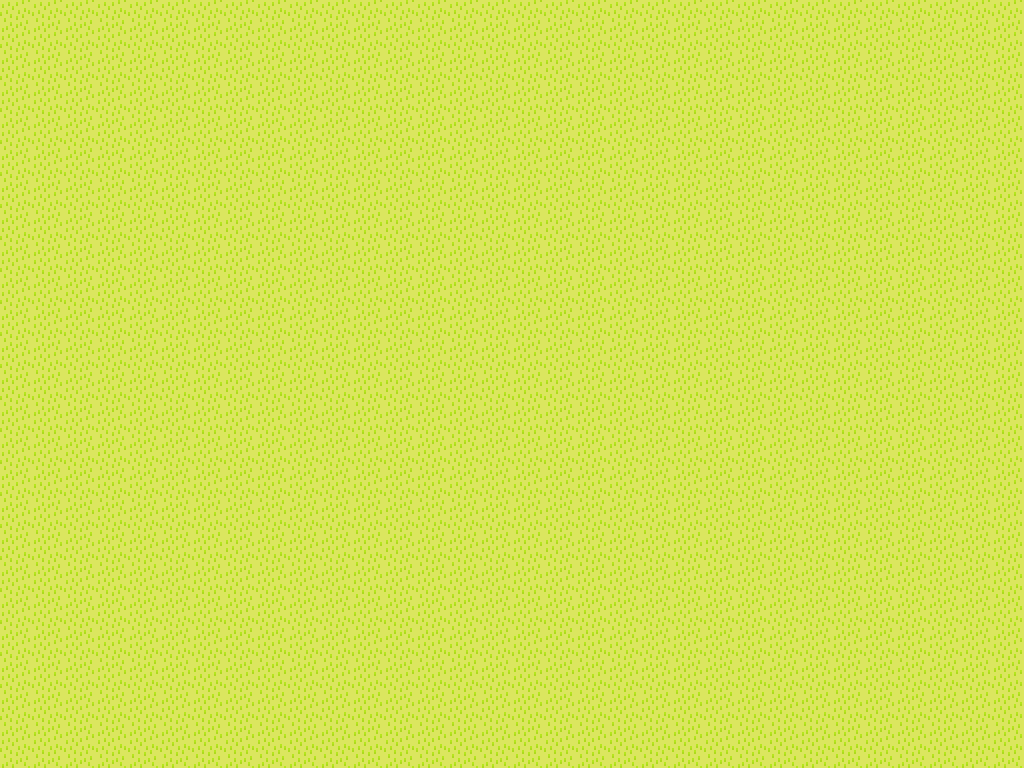
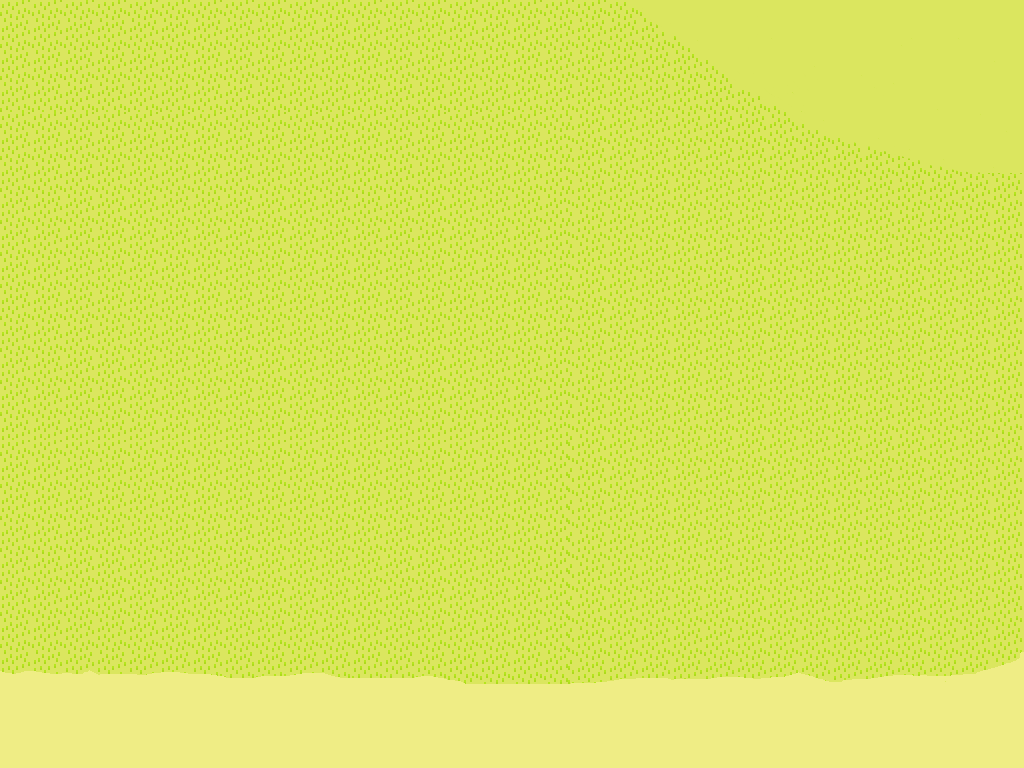
1.2.1

Changed region(s): [[0.0, 0.1562, 1.0, 1.0], [0.625, 0.0, 1.0, 0.2188]]

diff --git a/compact.py b/compact.py
@@ -74,13 +74,19 @@ def sort_for_height(liste):
     sorted_greater = sort_for_height(greater_than_pivot)
     return sorted_less + equal_to_pivot + sorted_greater
 
+def paint_street():
+    x = pygame.mouse.get_pos()[0]
+    y = pygame.mouse.get_pos()[1]
+    a = Street(x,y)
+    streets.append(a)
+
         
 
 def earn(houses, villas, mansions, manors, industrial_units, factories):
     return len(houses) * 20 + len(villas) * 60 + len(mansions) * 150 + len(manors) * 350 + len(industrial_units) * 100 + len(factories) * 220 + len(industrial_plants) * 500
 
 def count_habs(houses, villas, mansions, manors):
-    return len(houses) * 2 + len(villas) * 3 + len(mansions) * 4 + len(manors) * 5
+    return len(houses) * 1 + len(villas) * 2 + len(mansions) * 4 + len(manors) * 8
 
 # leeren platz finden
 def locate_place():
@@ -114,6 +120,8 @@ GARDEN_IMAGE_PATH = "pictures/garden.png"
 PARK_IMAGE_PATH = "pictures/park.png"
 FOREST_IMAGE_PATH = "pictures/forest.png"
 
+STREET_IMAGE_PATH = "pictures/street.png"
+
 #Bildgrößen 
 HOUSE_WIDTH = 84
 HOUSE_HEIGHT = 76
@@ -137,7 +145,7 @@ FOREST_WIDTH = 48
 FOREST_HEIGHT = 34
 
 # Start Variablen
-coins = 80000
+coins = 80
 habs = 0
 
 buildings = []
@@ -151,6 +159,8 @@ industrial_plants = []
 gardens = []
 parks = []
 forests = []
+
+streets = []
 
 # Klassen
 class House:
@@ -283,6 +293,16 @@ class Forest:
     def draw(self, surface):
         surface.blit(load_image(FOREST_IMAGE_PATH), self.rect)
 
+class Street:
+    def __init__(self, x, y):
+        self.rect = load_image(FOREST_IMAGE_PATH).get_rect()
+        self.rect.x = x
+        self.rect.y = y
+        self.dragging = False
+
+    def draw(self, surface):
+        surface.blit(load_image(STREET_IMAGE_PATH), self.rect)
+
 # Fenster erstellen
 bg = pygame.image.load("background.png")
 window = pygame.display.set_mode(WINDOW_SIZE)
@@ -301,8 +321,12 @@ houses.append(start_house2)
 buildings.append(start_house1)
 buildings.append(start_house2)
 
-# Error text
+# init -> none everything
 messageboxtext = None
+street_draw = False
+street_erase = False
+street_drawing = True
+street_erasing = True
 
 # Button_Haus erstellen
 button_house_font = pygame.font.SysFont('impact', 32)
@@ -362,6 +386,8 @@ while running:
                     buildings.append(new_garden)
                 else:
                     messageboxtext = "Du brauchst 150 Münzen, um ein Park zu kaufen"
+            if street_draw:
+                street_drawing = True
         elif event.type == pygame.KEYDOWN:
             if event.key == pygame.K_f:
                 # Überprüfe den aktuellen Fenstermod us
@@ -373,6 +399,22 @@ while running:
                     # Wenn Fenstermodus aktiv ist, wechsle zu Vollbildmodus
                     pygame.display.set_mode(WINDOW_SIZE, pygame.FULLSCREEN)
                     is_fullscreen = True
+            elif event.key == pygame.K_ESCAPE:
+                    if is_fullscreen:
+                        pygame.display.set_mode(WINDOW_SIZE, pygame.RESIZABLE)
+                        is_fulscreen = False
+            elif event.key == pygame.K_s:
+                if street_draw:
+                    street_draw = False
+                else:
+                    street_draw = True
+            elif event.key == pygame.K_d:
+                if street_erase:
+                    street_erase = False
+                else:
+                    street_erase = True
+            elif event.key == pygame.K_q:
+                running = False
         elif event.type == pygame.MOUSEBUTTONUP:
             stop_dragging(buildings)
             merge(houses, Villa, villas, VILLA_HEIGHT, VILLA_WIDTH)
@@ -387,7 +429,13 @@ while running:
         elif event.type == 618:
             coins += earn(houses, villas, mansions, manors, industrial_units, factories)
             messageboxtext = None
+    if street_draw:
+        paint_street()
+    
     window.blit(bg, (0,0))
+
+    for street in streets:
+        street.draw(window)
 
     draw_buildings(buildings, window)
 
